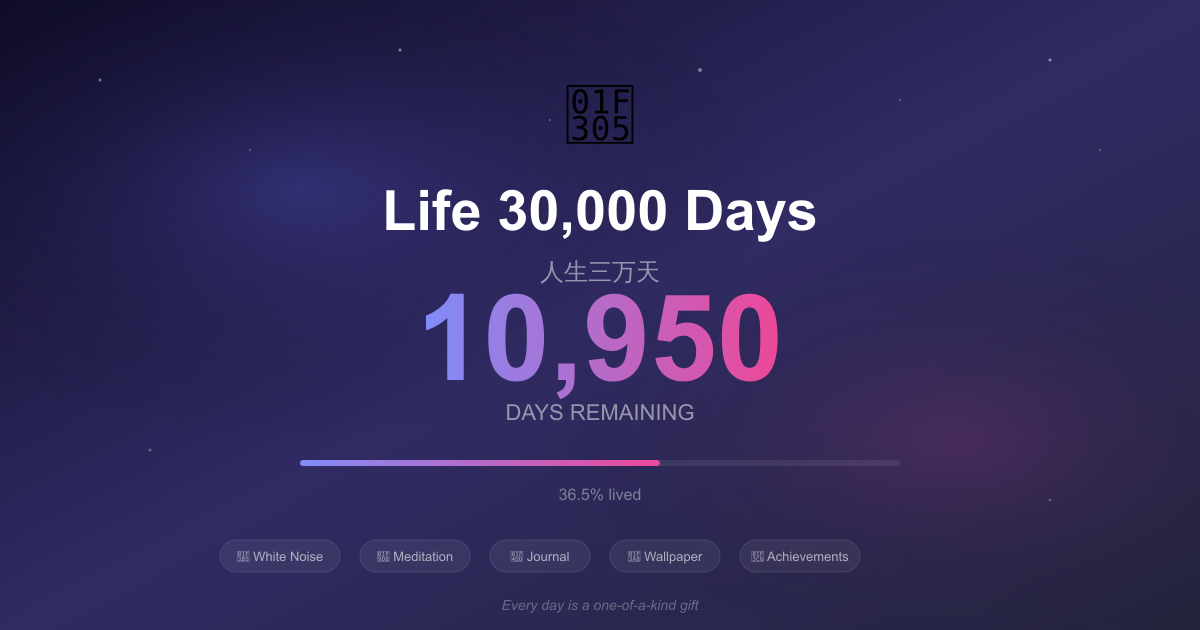
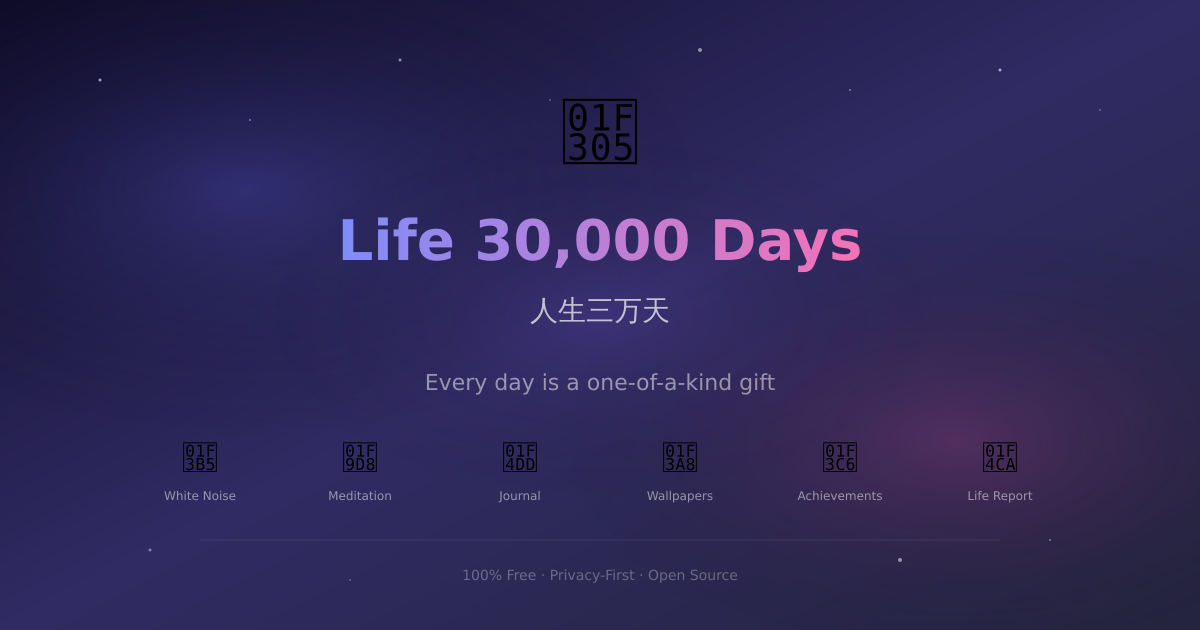
feat: Product Hunt launch prep
- Add Google AdSense integration (ca-pub-2511686711761568)
- Add SEO meta tags (Open Graph, Twitter Card, canonical URL)
- Regenerate social share image for Product Hunt (1200x630)
- Add netlify.toml deployment config
- Update README with live demo links and monetization info
- Fix ad slots to use real Google Ads units

diff --git a/index.html b/index.html
@@ -3,7 +3,28 @@
 <head>
   <meta charset="UTF-8">
   <meta name="viewport" content="width=device-width, initial-scale=1.0, maximum-scale=1.0, user-scalable=no">
-  <title>🌅 人生三万天</title>
+  <title>🌅 Life 30,000 Days | 人生三万天</title>
+
+  <!-- SEO Meta Tags -->
+  <meta name="description" content="Visualize your life's remaining days & find daily motivation. A beautiful mindfulness web app with life countdown, daily quotes, meditation, white noise, wallpaper generator and more.">
+  <meta name="keywords" content="life countdown,mindfulness,daily motivation,meditation,white noise,人生三万天,生命倒计时,冥想,白噪音">
+  <meta name="author" content="Sherlock1412">
+  <link rel="canonical" href="https://life-30000-days.netlify.app">
+
+  <!-- Open Graph / Facebook -->
+  <meta property="og:type" content="website">
+  <meta property="og:url" content="https://life-30000-days.netlify.app">
+  <meta property="og:title" content="🌅 Life 30,000 Days | 人生三万天">
+  <meta property="og:description" content="Visualize your life's remaining days & find daily motivation. A beautiful mindfulness web app with life countdown, daily quotes, meditation, white noise and more.">
+  <meta property="og:image" content="https://life-30000-days.netlify.app/assets/social-share.png">
+
+  <!-- Twitter Card -->
+  <meta name="twitter:card" content="summary_large_image">
+  <meta name="twitter:url" content="https://life-30000-days.netlify.app">
+  <meta name="twitter:title" content="🌅 Life 30,000 Days | 人生三万天">
+  <meta name="twitter:description" content="Visualize your life's remaining days & find daily motivation.">
+  <meta name="twitter:image" content="https://life-30000-days.netlify.app/assets/social-share.png">
+
   <link rel="stylesheet" href="css/style.css">
   <link rel="manifest" href="manifest.json">
   <meta name="theme-color" content="#0a0a1a">
@@ -11,6 +32,9 @@
   <meta name="apple-mobile-web-app-status-bar-style" content="black-translucent">
   <link rel="apple-touch-icon" href="assets/icon-192.png">
   <link href="https://fonts.googleapis.com/css2?family=Noto+Sans+SC:wght@300;400;500;700;900&family=Playfair+Display:ital,wght@0,700;1,700&display=swap" rel="stylesheet">
+
+  <!-- Google AdSense -->
+  <script async src="https://pagead2.googlesyndication.com/pagead/js/adsbygoogle.js?client=ca-pub-2511686711761568" crossorigin="anonymous"></script>
 </head>
 <body>
   <!-- 粒子背景 -->
@@ -219,11 +243,14 @@
         <div class="fun-grid" id="fun-grid"></div>
       </section>
 
-      <!-- 广告位 (中间位置) -->
+      <!-- Google AdSense 广告 (中间位置) -->
       <section class="main-ad-slot" id="main-ad-slot">
-        <!-- 👇 注册 Google AdSense 或穿山甲后，把广告代码粘贴到这里 -->
-        <!-- <ins class="adsbygoogle" ...></ins> -->
-        <div class="ad-placeholder">📢 广告位 — 接入广告平台后自动展示</div>
+        <ins class="adsbygoogle"
+          style="display:block"
+          data-ad-client="ca-pub-2511686711761568"
+          data-ad-slot="auto"
+          data-ad-format="auto"
+          data-full-width-responsive="true"></ins>
       </section>
     </main>
   </div>
@@ -349,11 +376,14 @@
           </div>
         </div>
         <button class="btn-primary" id="save-settings">保存设置</button>
-        <!-- 广告位 (Google AdSense / 穿山甲) -->
+        <!-- Google AdSense 广告 -->
         <div class="ad-slot" id="ad-slot-settings" style="margin-top:16px">
-          <!-- 👇 注册广告平台后，把广告代码粘贴到这里 -->
-          <!-- <ins class="adsbygoogle" ...></ins> -->
-          <div class="ad-placeholder">📢 广告位</div>
+          <ins class="adsbygoogle"
+            style="display:block"
+            data-ad-client="ca-pub-2511686711761568"
+            data-ad-slot="auto"
+            data-ad-format="auto"
+            data-full-width-responsive="true"></ins>
         </div>
       </div>
     </div>
@@ -550,6 +580,8 @@
     if ('serviceWorker' in navigator) {
       navigator.serviceWorker.register('./sw.js').catch(() => {});
     }
+    // Initialize Google AdSense ads
+    (adsbygoogle = window.adsbygoogle || []).push({});
   </script>
 </body>
 </html>

diff --git a/README.md b/README.md
@@ -4,9 +4,9 @@
 
 A beautiful mindfulness web app that visualizes your life's remaining days. Enter your birthday to see how many days you've lived and how many remain — with daily motivation, wallpapers, wellness tools, and more.
 
-一个关于时间、生命与珍惜的 Web 应用。通过输入出生年月日，计算你人生已度过的天数和剩余天数，生成每日激励语句和精美壁纸。
+一个关于时间、生命与珍惜的 Web 应用。
 
-**[🇺🇸 Product Hunt](https://www.producthunt.com)** | **[🔥 Live Demo](#)** | **[📖 文档](#-功能特性)**
+**[🚀 Live Demo](https://life-30000-days.netlify.app)** | **[🌅 Product Hunt](https://www.producthunt.com)** | **[🔥 爱发电支持](https://afdian.com/a/sherlock1412)**
 
 ## ✨ 功能特性
 
@@ -14,7 +14,6 @@ A beautiful mindfulness web app that visualizes your life's remaining days. Ente
 - **生命倒计时** — 精确计算已度过和剩余的天数
 - **生命进度环** — 可视化展示人生进度
 - **每日金句** — 60+ 条精选激励语句，每天自动更换
-- **专属激励语** — 根据年龄和剩余天数生成个性化激励
 - **生命时间线** — 用像素点可视化你的人生
 - **人生里程碑** — 追踪重要人生节点
 - **趣味数据** — 心跳、呼吸、步数等生活数据估算
@@ -44,41 +43,31 @@ A beautiful mindfulness web app that visualizes your life's remaining days. Ente
 - 每天记录 3 件感恩的事
 - 随机提示问题引导思考
 - 连续天数统计
-- 总感恩条数统计
 
 ### 🧘 冥想计时器
 - 5/10/15/20/30 分钟预设
 - 渐变环形进度可视化
-- 开始/暂停/结束控制
 - 累计冥想次数和时长统计
 
 ### 📊 年度生命报告
 - 生命阶段识别（幼儿期→黄金期）
 - 生命中的数字：心跳、呼吸、睡眠、步数
 - 今年进度追踪
-- 应用使用数据汇总
 
-### 🎲 随机挑战任务
+### 🎲 每日挑战
 - 26 种创意/社交/健康/学习/生活类挑战
 - 每天自动推荐一个
-- 可手动换一个新挑战
 - 连续完成天数统计
 
 ### 🏆 成就系统
 - 30+ 个可解锁成就
-- 涵盖：使用天数、生命里程碑、感恩、冥想、挑战、壁纸、白噪音、金句
 - 成就解锁弹窗动画通知
-- 总解锁进度条
 
-### 🔐 用户系统
-- 注册 / 登录
-- 数据本地存储（localStorage）
-- 个性化设置（生日、预期寿命、主题色）
-
-### 📲 跨平台
-- **Web 应用** — 响应式设计，支持桌面和移动端
-- **PWA 支持** — 可安装到手机桌面，离线可用
-- **小组件** — 支持桌面嵌入
+### 💰 变现
+- Google AdSense 广告集成
+- 爱发电捐赠支持：[afdian.com/a/sherlock1412](https://afdian.com/a/sherlock1412)
+- Buy Me a Coffee 支持
+- Premium 激活码系统
 
 ## 🚀 快速开始
 
@@ -103,9 +92,10 @@ life-30000-days/
 │   ├── wallpaper.js    # 壁纸生成引擎
 │   └── features.js     # 新功能模块 (白噪音/冥想/感恩/挑战/成就/报告)
 ├── widget/widget.html  # 嵌入式小组件
-├── assets/             # 图标
+├── assets/             # 图标 & 社交分享图
 ├── manifest.json       # PWA 配置
-├── sw.js              # Service Worker
+├── sw.js               # Service Worker
+├── netlify.toml        # Netlify 部署配置
 └── README.md
 ```
 
@@ -116,3 +106,9 @@ life-30000-days/
 ## 📜 License
 
 MIT
+
+## ☕ 支持
+
+如果这个项目对你有帮助，欢迎请我喝杯咖啡：
+- 🔥 [爱发电](https://afdian.com/a/sherlock1412)
+- ☕ [Buy Me a Coffee](https://buymeacoffee.com/sherlock1412)
